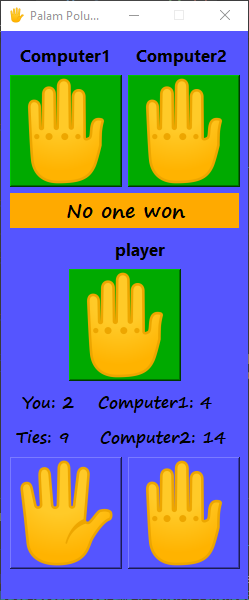
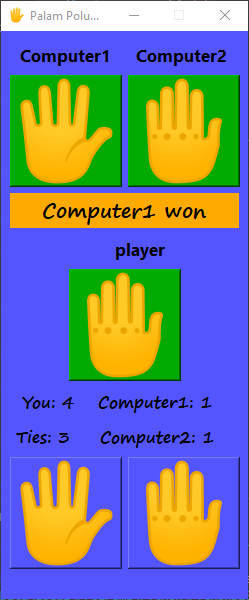
winner

diff --git a/PyLearnGUIPalamPolumPilish/main.py b/PyLearnGUIPalamPolumPilish/main.py
@@ -51,16 +51,38 @@ class MainWindow(QMainWindow):
             self.TScore += 1
         elif user_choice - i - j == 1 or user_choice - i - j == -2:
             self.UScore += 1
-            self.ui.how_win.setText('   You won')
+            self.ui.how_win.setText('       You won')
+            if self.UScore == 5:
+                msg_box = QMessageBox(text= 'You are winner')
+                msg_box.exec()  
+                self.update_score_board(True)
         elif user_choice == j:
             self.C1Score += 1
             self.ui.how_win.setText('    Computer1 won')
+            if self.C1Score == 5:
+                msg_box = QMessageBox(text= 'Computer1 is winner')
+                msg_box.exec()  
+                self.update_score_board(True)
         else:
             self.C2Score += 1
             self.ui.how_win.setText('    Computer2 won')
-        
+            if self.C2Score == 5:
+                msg_box = QMessageBox(text= 'Computer2 is winner')
+                msg_box.exec()  
+                self.update_score_board(True)
+
+        self.update_score_board()
+
+    def update_score_board(self, reset = False):
+        if reset:
+            self.UScore = 0
+            self.C1Score = 0
+            self.TScore = 0
+            self.C2Score = 0
         self.ui.scoreboard.setText(f'  You: {self.UScore}    Computer1: {self.C1Score}')
         self.ui.scoreboard_2.setText(f' Ties: {self.TScore}     Computer2: {self.C2Score}')
+
+
 
 app = QApplication(sys.argv)
 main_window = MainWindow()
